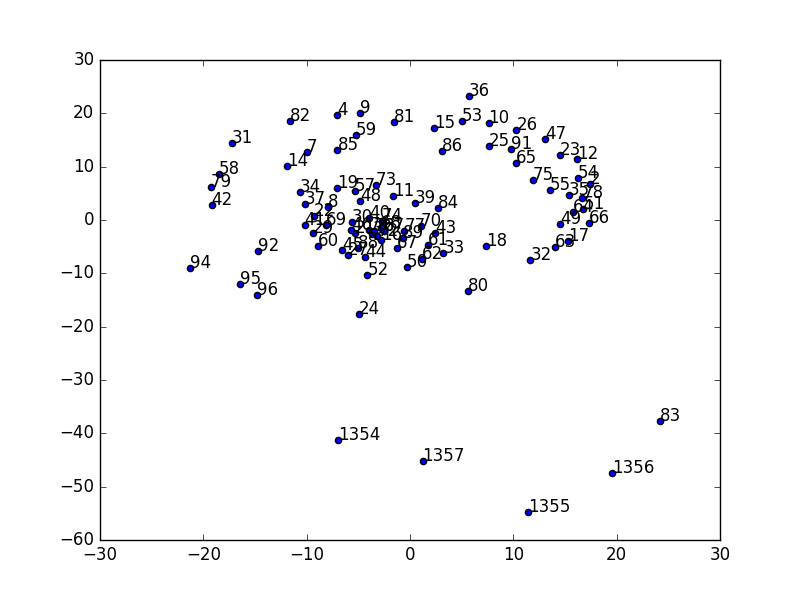
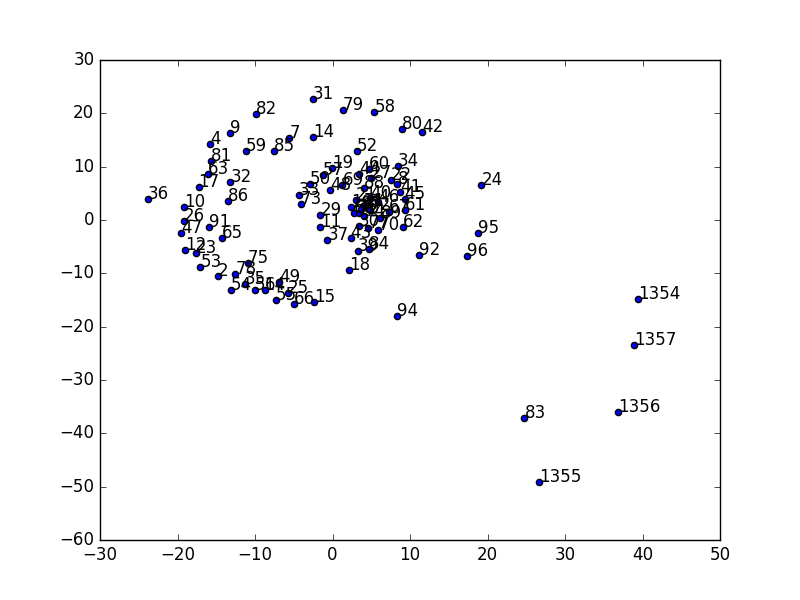
kompas initial

diff --git a/kompas2/notes.py b/kompas2/notes.py
@@ -1,11 +1,8 @@
 import requests
 import numpy as np
 import matplotlib.pyplot as plt
-import matplotlib
 from sklearn.decomposition import PCA as sklearnPCA
 from sklearn.manifold import MDS as sklearnMDS
-
-matplotlib.rc('font', family='Arial')
 
 def showCompass():
 
@@ -32,13 +29,36 @@ def assignValueToOption(option):
 def getPeoplesNames(ids):
     names_list = []
     for person_id in ids:
-        print person_id
         data = requests.get('https://analize.parlameter.si/v1/p/getMPStatic/' + str(person_id) + '/').json()
         name = data['person']['name']
 
-        names_list.append(data['person']['name'])
+        names_list.append(data['person']['name'].encode('ascii', errors='xmlcharrefreplace'))
 
     return names_list
+
+def makeSimilarities(people_ballots_sorted_list):
+
+    similarities = []
+
+    # iterate through people
+    for i, personA in enumerate(people_ballots_sorted_list):
+        similarities.append([])
+
+        # iterate through people for a second time
+        for j, personB in enumerate(people_ballots_sorted_list):
+
+            # start counting similar ballots
+            ballot_similarity = 0
+            for k, ballot in enumerate(personA):
+                if ballot == personB[k]:
+                    ballot_similarity = ballot_similarity + 1
+
+            # done comparing with person
+            similarities[i].append(ballot_similarity)
+
+    return np.array(similarities)
+
+
 
 def getData():
     allballots = requests.get('https://data.parlameter.si/v1/getAllBallots/').json()
@@ -72,13 +92,15 @@ def getData():
 
     thearray = np.array(people_ballots_sorted_list)
 
+    people_names = getPeoplesNames(people_ids)
+
     sklearn_pca = sklearnPCA(n_components=2)
     sklearn_transf = sklearn_pca.fit_transform(thearray)
 
     fig, ax = plt.subplots()
     ax.scatter(sklearn_transf[0:90,0],sklearn_transf[0:90,1])#, 'o', markersize=7, color='blue', alpha=0.5)
     for i, txt in enumerate(people_ids):
-        ax.annotate(str(txt).encode('ascii', errors='xmlcharrefreplace'), (sklearn_transf[0:90,0][i], sklearn_transf[0:90,1][i]))
+        ax.annotate(str(txt), (sklearn_transf[0:90,0][i], sklearn_transf[0:90,1][i]))
 
     # plt.plot(sklearn_transf[0:90,0],sklearn_transf[0:90,1], 'o', markersize=7, color='blue', alpha=0.5)
     plt.savefig('PCA.png')
@@ -88,8 +110,17 @@ def getData():
 
     fig2, ax2 = plt.subplots()
     ax2.scatter(mda_result[0:90, 0], mda_result[0:90, 1])
-    for i, txt in enumerate(getPeoplesNames(people_ids)):
+    for i, txt in enumerate(people_ids):
         ax2.annotate(str(txt), (mda_result[0:90, 0][i], mda_result[0:90, 1][i]))
     plt.savefig('MDA.png')
+
+    similarities = makeSimilarities(people_ballots_sorted_list)
+    u, s, vT = np.linalg.svd(similarities)
+
+    fig3, ax3 = plt.subplots()
+    ax3.scatter(vT[1,:], vT[0,:])
+    for i, txt in enumerate(people_ids):
+        ax3.annotate(str(txt), (vT[1,:][i], vT[0,:][i]))
+    plt.savefig('SVD.png')
 
     return people_ids, people_ballots_sorted, people_ballots_sorted_list, sklearn_mda
